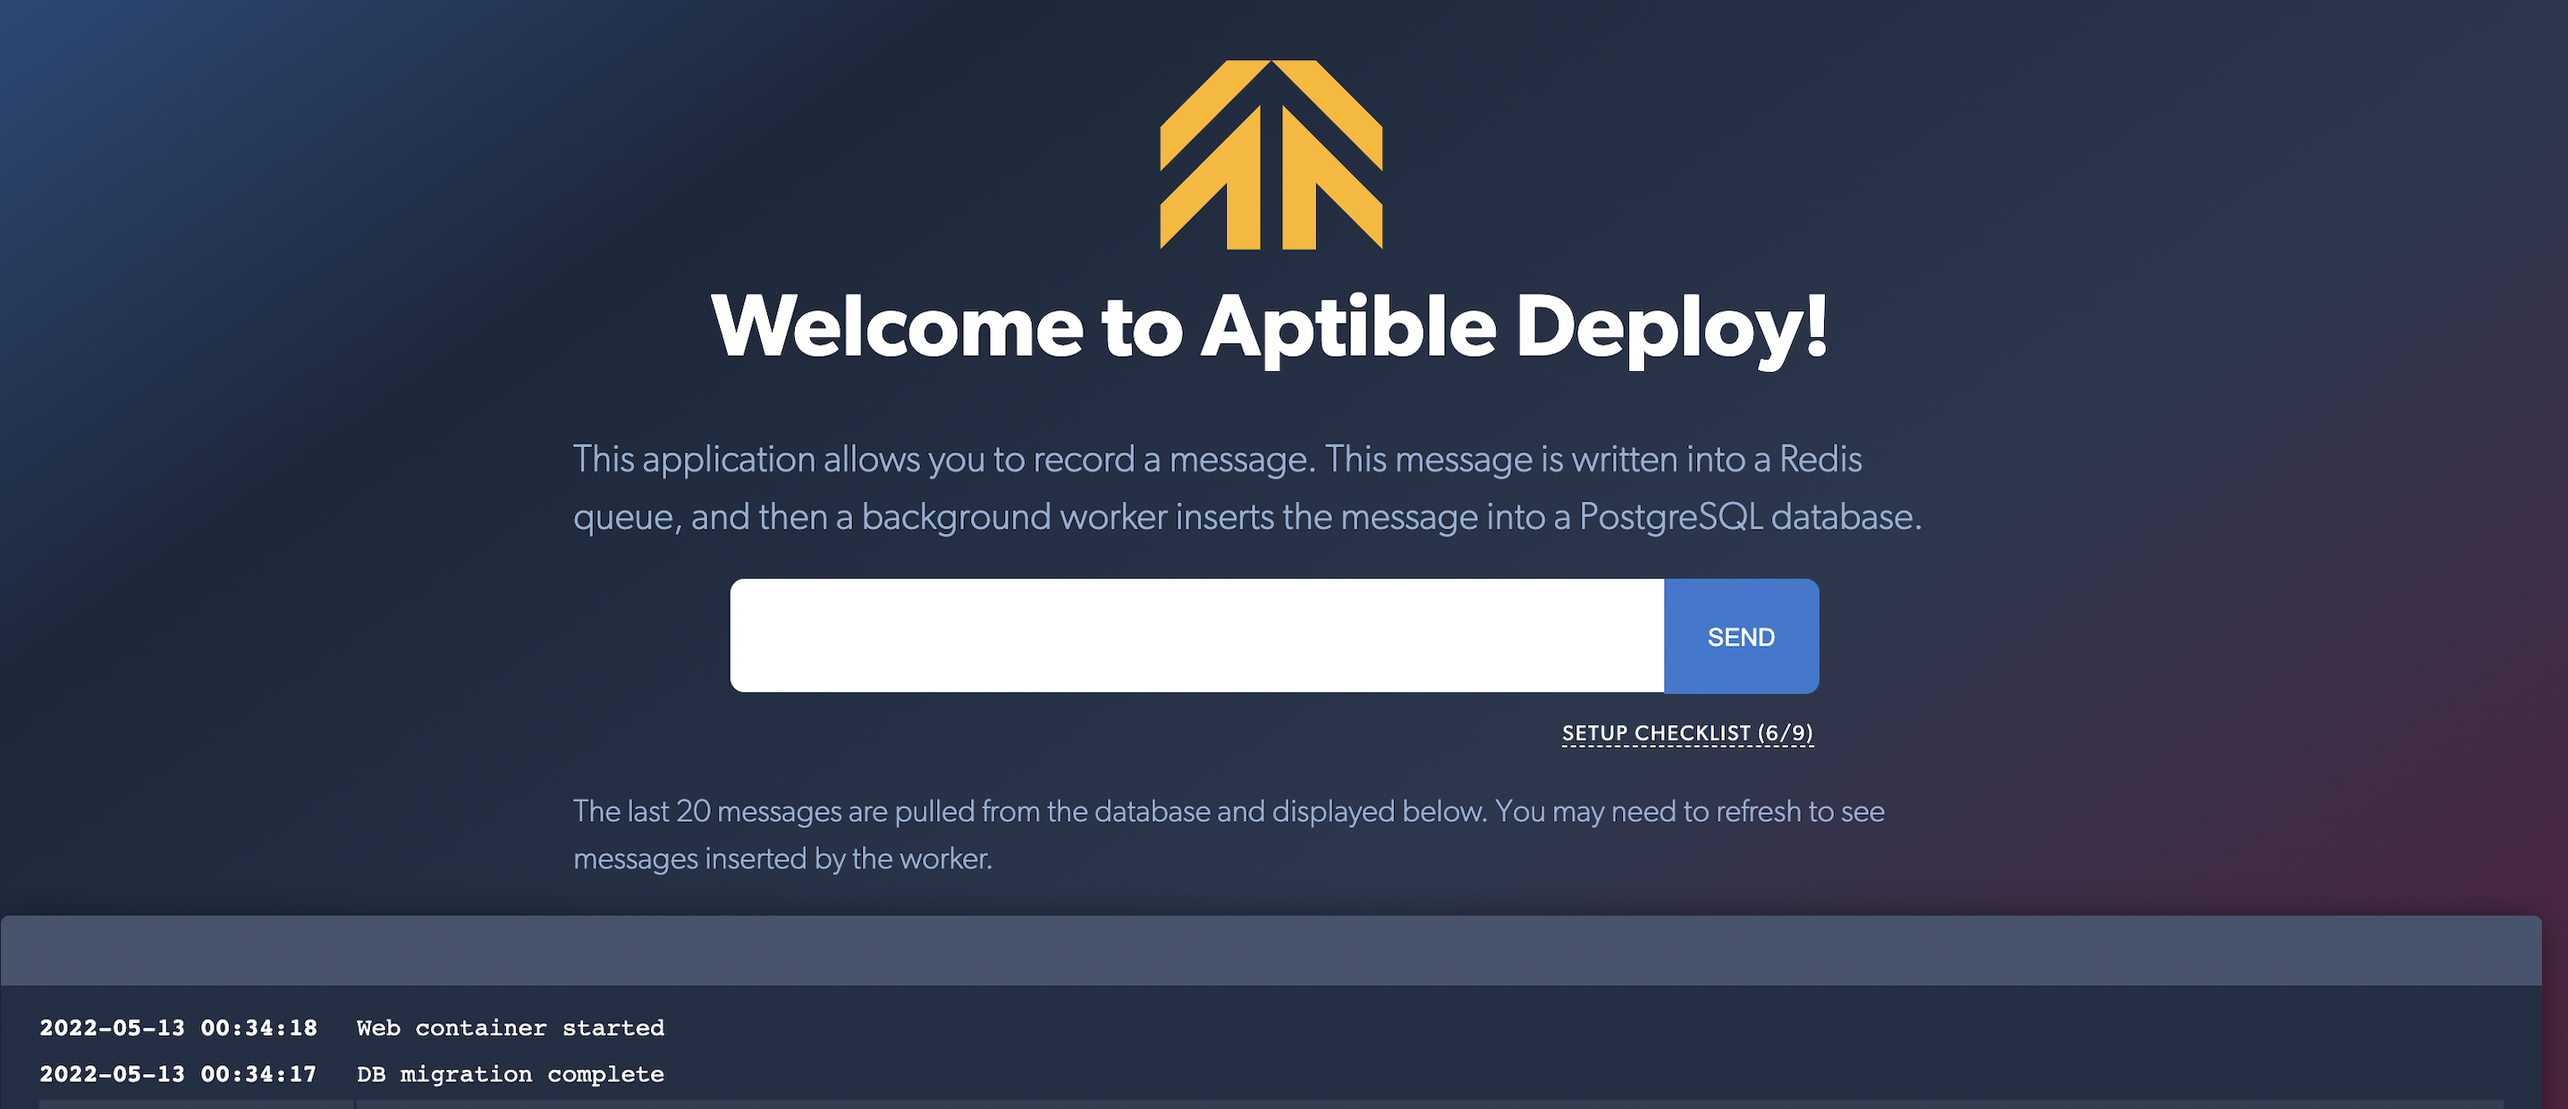
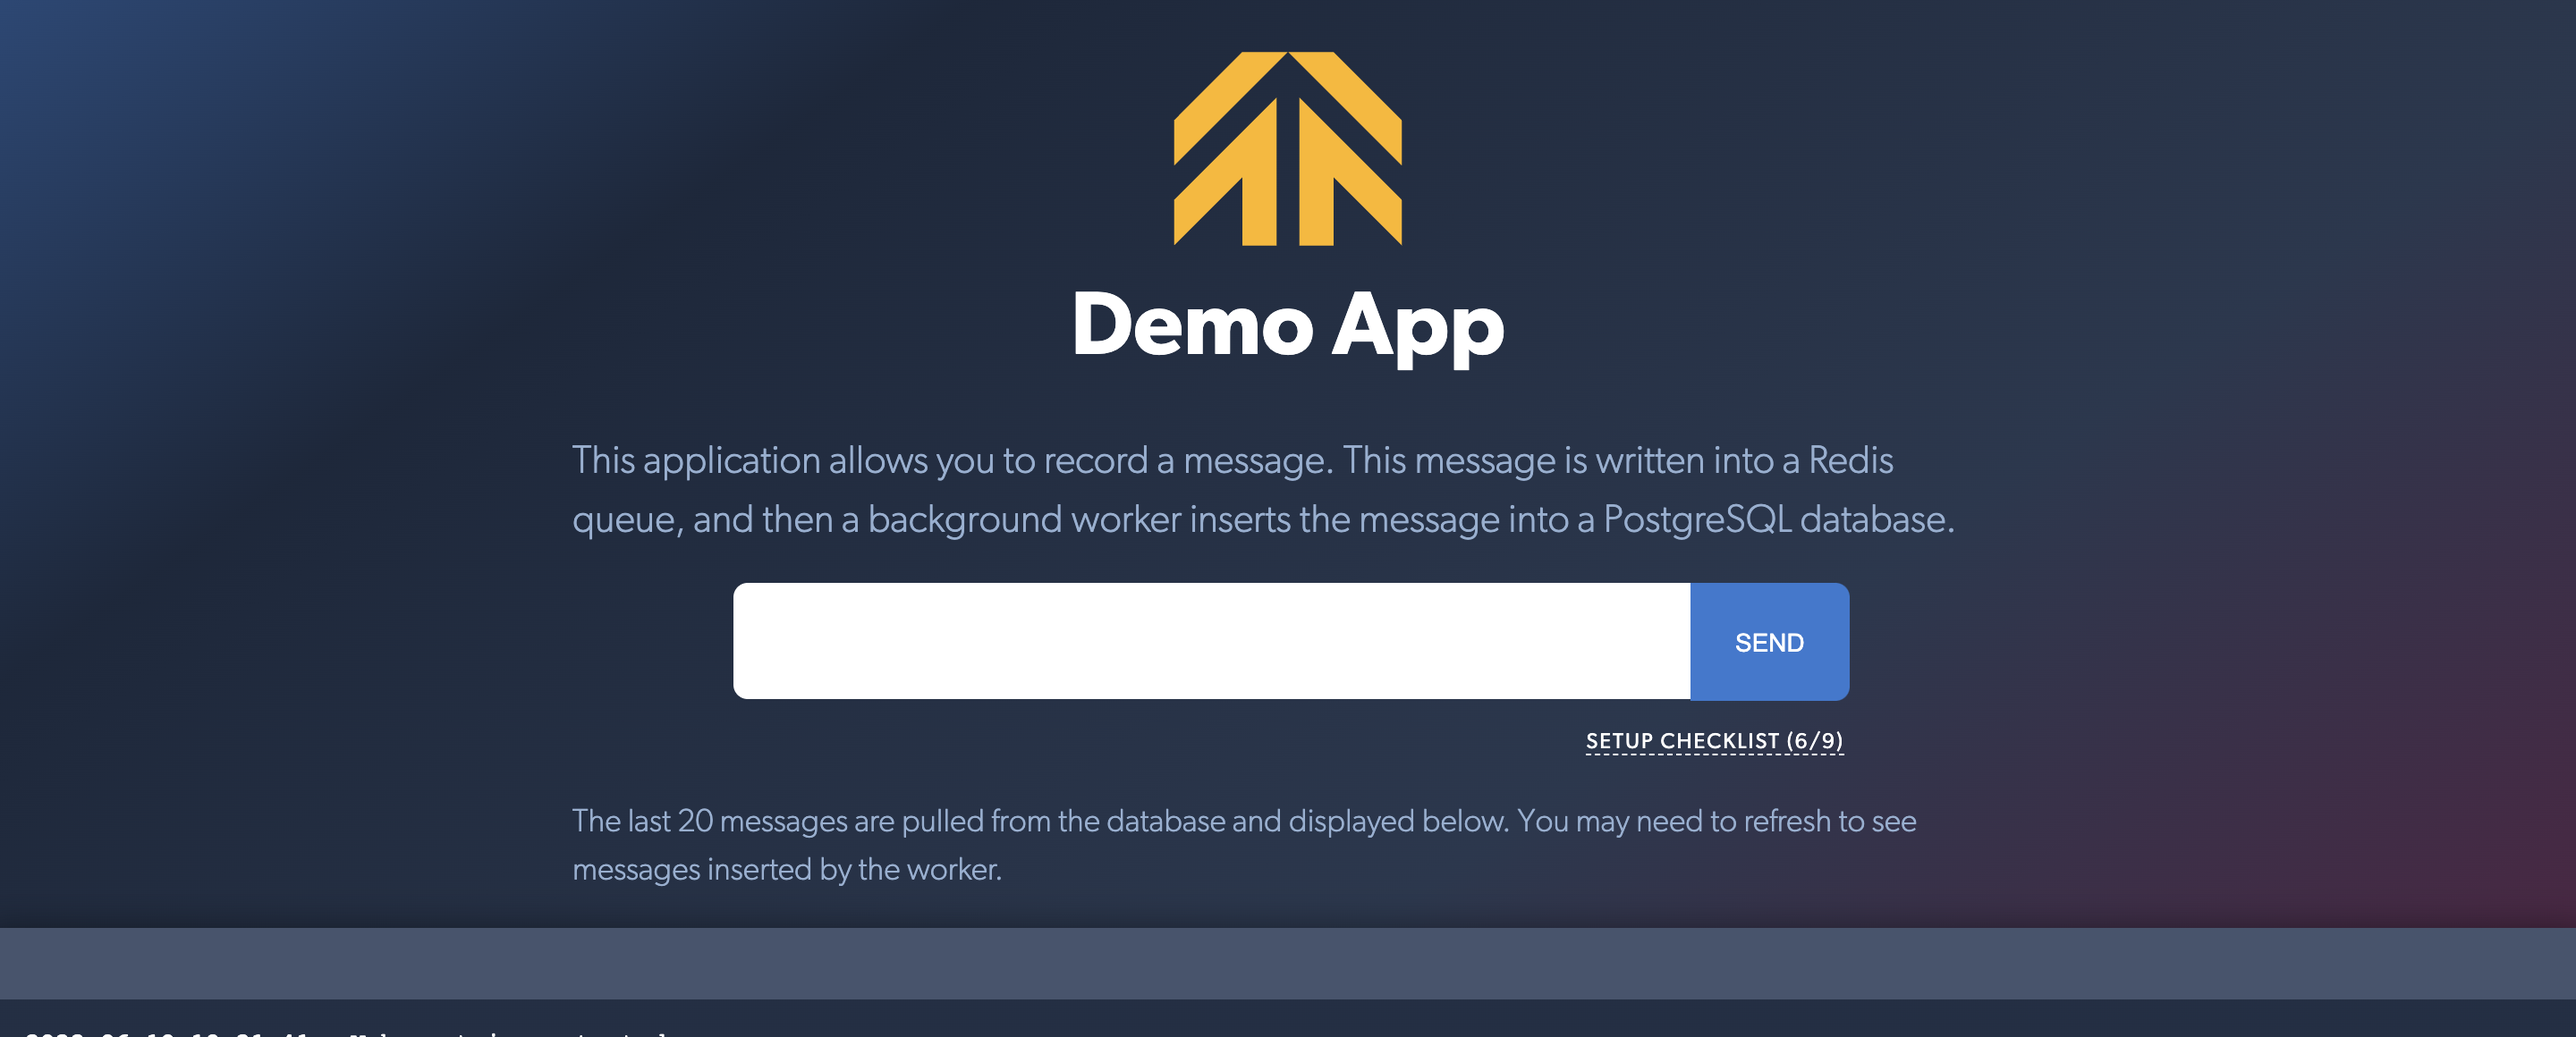
changed name to be demo app

Changed region(s): [[0.0, 0.4034, 1.0, 1.0], [0.2789, 0.031, 0.7127, 0.3724]]

diff --git a/app/templates/index.html b/app/templates/index.html
@@ -1,7 +1,7 @@
 <!DOCTYPE html>
 <html lang="en">
   <head>
-    <title>Aptible Deploy Demo App</title>
+    <title>Demo App</title>
     <script src="https://use.typekit.net/pqi8lpw.js"></script>
     <script>try { Typekit.load({ async: false }); } catch(e) {}</script>
     <link rel="stylesheet" href="static/all.css" />
@@ -13,7 +13,7 @@
            alt="Aptible logo"
            width="139px"
            style="padding-top:30px;"/>
-       <h1>Hello World!</h1>
+       <h1>Demo App</h1>
     </header>
 
     <section class="app-input">
